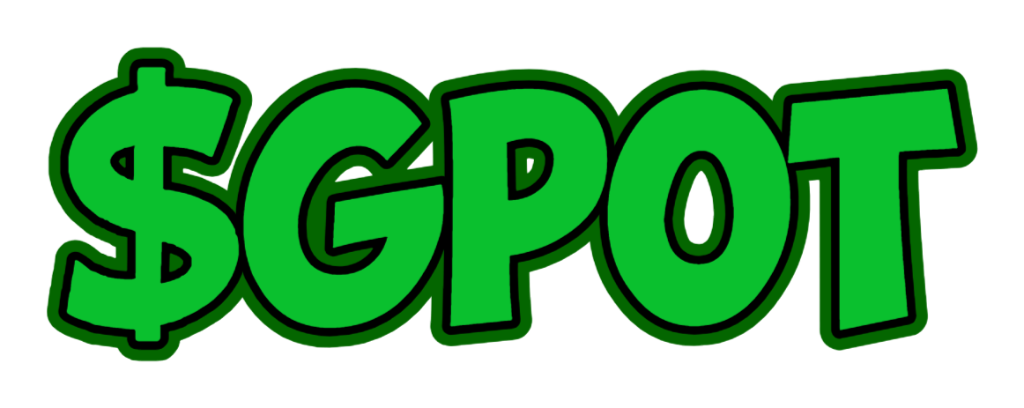
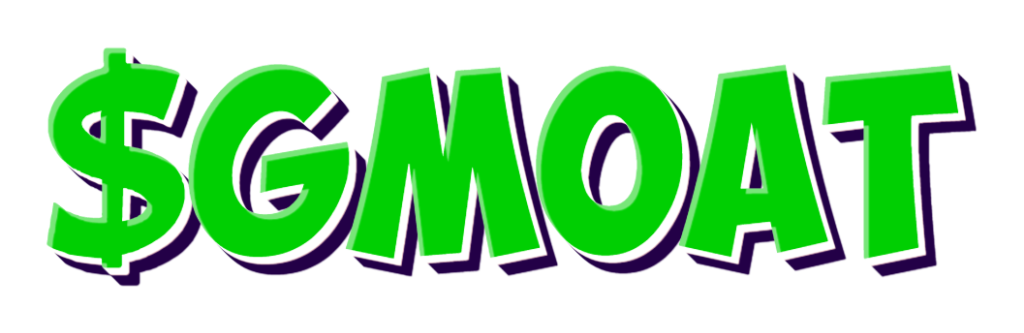
1

diff --git a/index.html b/index.html
@@ -4,11 +4,11 @@
 <meta charset="UTF-8">
 <meta name="viewport" content="width=device-width, initial-scale=1">
 	 <link rel="profile" href="https://gmpg.org/xfn/11"> 
-	 <title>Greatest Pepe of All Time</title>
+	 <title>Greatest Meme of All Time</title>
 <meta name='robots' content='max-image-preview:large' />
 <link rel='dns-prefetch' href='./fonts.googleapis.com' />
-<link rel="alternate" type="application/rss+xml" title="Greatest Pepe of All Time &raquo; Feed" href="https://greatesttokenofalltime.com/feed/" />
-<link rel="alternate" type="application/rss+xml" title="Greatest Pepe of All Time &raquo; Comments Feed" href="https://greatesttokenofalltime.com/comments/feed/" />
+<link rel="alternate" type="application/rss+xml" title="Greatest Meme of All Time &raquo; Feed" href="https://greatesttokenofalltime.com/feed/" />
+<link rel="alternate" type="application/rss+xml" title="Greatest Meme of All Time &raquo; Comments Feed" href="https://greatesttokenofalltime.com/comments/feed/" />
 <script>
 window._wpemojiSettings = {"baseUrl":"https:\/\/s.w.org\/images\/core\/emoji\/15.0.3\/72x72\/","ext":".png","svgUrl":"https:\/\/s.w.org\/images\/core\/emoji\/15.0.3\/svg\/","svgExt":".svg","source":{"concatemoji":"https:\/\/greatesttokenofalltime.com\/wp-includes\/js\/wp-emoji-release.min.js?ver=6.6.2"}};
 /*! This file is auto-generated */
@@ -163,7 +163,7 @@ class="post-1322 page type-page status-publish ast-article-single" id="post-1322
 		<div class="elementor-element elementor-element-5cd72ca e-con-full e-flex e-con e-child" data-id="5cd72ca" data-element_type="container">
 				<div class="elementor-element elementor-element-1376bd8 elementor-widget elementor-widget-heading" data-id="1376bd8" data-element_type="widget" data-widget_type="heading.default">
 				<div class="elementor-widget-container">
-			<h2 class="elementor-heading-title elementor-size-default">Greatest Pepe of All Time</h2>		</div>
+			<h2 class="elementor-heading-title elementor-size-default">Greatest Meme of All Time</h2>		</div>
 				</div>
 				<div class="elementor-element elementor-element-6646c36 elementor-invisible elementor-widget elementor-widget-image" data-id="6646c36" data-element_type="widget" data-settings="{&quot;_animation&quot;:&quot;bounceIn&quot;}" data-widget_type="image.default">
 				<div class="elementor-widget-container">
@@ -177,19 +177,19 @@ class="post-1322 page type-page status-publish ast-article-single" id="post-1322
 				<div class="elementor-widget-container">
 					<div class="elementor-social-icons-wrapper elementor-grid">
 							<span class="elementor-grid-item">
-					<a class="elementor-icon elementor-social-icon elementor-social-icon- elementor-animation-buzz elementor-repeater-item-c13c412" href="https://x.com/gpotsol" target="_blank">
+					<a class="elementor-icon elementor-social-icon elementor-social-icon- elementor-animation-buzz elementor-repeater-item-c13c412" href="https://x.com/gmoatonsol" target="_blank">
 						<span class="elementor-screen-only"></span>
 						<svg xmlns="http://www.w3.org/2000/svg" width="314" height="312" viewBox="0 0 314 312" fill="none"><g clip-path="url(#clip0_5948_74)"><path d="M109.901 5.79688H204.001C260.901 5.79688 307.101 51.9969 307.101 108.897V202.997C307.101 259.897 260.901 306.097 204.001 306.097H109.901C53.0008 306.097 6.80078 259.897 6.80078 202.997V108.897C6.80078 51.8969 53.0008 5.79688 109.901 5.79688Z" fill="#00AF00"></path><path d="M278.5 47.7984C281 45.9984 283.2 44.3984 286 42.3984C289.9 48.0984 294.1 53.4984 297.5 59.3984C308 77.1984 313.3 96.4984 313.4 117.098C313.5 142.898 313.6 168.698 313.4 194.598C313 250.898 272.3 298.998 216.8 308.698C209.7 309.898 202.4 310.698 195.2 310.698C169.4 310.898 143.5 311.298 117.7 310.698C73.7 309.698 39.9 290.198 16.5 252.898C15.6 251.498 14.9 250.098 14 248.398C16.5 246.798 18.9 245.198 21.5 243.498C22.4 244.998 23.1 245.998 23.7 247.098C43.5 279.598 72.1 298.398 110.1 300.998C131.2 302.498 152.5 301.798 173.7 301.598C186.5 301.498 199.5 301.598 212.1 300.098C255.4 294.998 294.1 258.098 301.8 215.198C303.2 207.298 303.9 199.098 304 191.098C304.3 167.698 304 144.198 304.1 120.798C304.2 94.3984 296.5 70.7984 279.8 50.1984C279.6 49.5984 279.2 48.8984 278.5 47.7984Z" fill="black"></path><path d="M19.4016 239.102C16.6016 240.102 14.0016 241.102 11.1016 242.102C6.50156 232.502 3.40156 222.702 2.10156 212.402C1.10156 205.302 0.601562 198.002 0.601562 190.802C0.401562 167.002 0.501563 143.102 0.501563 119.302C0.601563 60.7016 41.3016 12.4016 99.1016 2.60156C105.602 1.50156 112.202 1.10156 118.802 1.00156C144.402 0.801563 170.002 0.801563 195.502 1.00156C220.902 1.10156 244.102 8.60156 264.802 23.4016C266.302 24.5016 267.802 25.6016 269.402 26.9016C267.702 29.5016 266.202 31.8016 264.402 34.4016C263.102 33.5016 262.102 32.8016 261.102 32.1016C241.602 17.5016 219.502 10.2016 195.202 10.1016C169.602 9.90156 144.002 10.0016 118.502 10.1016C66.8016 10.3016 23.4016 44.7016 12.1016 94.7016C10.4016 102.302 9.60156 110.302 9.50156 118.102C9.20156 143.002 9.40156 168.002 9.40156 193.002C9.40156 207.902 12.1016 222.202 18.1016 235.902C18.7016 236.902 19.0016 237.802 19.4016 239.102Z" fill="black"></path><path d="M280.501 38.1984C279.001 39.8984 277.201 41.9984 275.001 44.5984C272.801 42.0984 271.001 39.7984 268.801 37.3984C270.501 35.7984 272.501 33.7984 274.601 31.8984C276.501 33.8984 278.401 35.8984 280.501 38.1984Z" fill="black"></path><path d="M75.3923 77L138.324 163.593L75 234H89.2557L144.701 172.361L189.496 234H238L171.53 142.535L230.475 77H216.22L165.163 133.768L123.906 77H75.4017H75.3923ZM96.3504 87.8047H118.628L217.023 223.195H194.745L96.3504 87.8047Z" fill="white"></path></g><defs><clipPath id="clip0_5948_74"><rect width="314" height="312" fill="white"></rect></clipPath></defs></svg>					</a>
 				</span>
 							<span class="elementor-grid-item">
-					<a class="elementor-icon elementor-social-icon elementor-social-icon- elementor-animation-buzz elementor-repeater-item-17acd4a" href="https://t.me/gpotsol" target="_blank">
+					<a class="elementor-icon elementor-social-icon elementor-social-icon- elementor-animation-buzz elementor-repeater-item-17acd4a" href="https://t.me/gmoatonsol" target="_blank">
 						<span class="elementor-screen-only"></span>
 						<svg xmlns="http://www.w3.org/2000/svg" width="314" height="312" viewBox="0 0 314 312" fill="none"><g clip-path="url(#clip0_5948_66)"><path d="M109.1 6.89844H203.2C260.1 6.89844 306.3 53.0984 306.3 109.998V204.098C306.3 260.998 260.1 307.198 203.2 307.198H109.1C52.2 307.198 6 260.998 6 204.098V109.998C6 52.9984 52.2 6.89844 109.1 6.89844Z" fill="#00AF00"></path><path d="M278.5 47.7984C281 45.9984 283.2 44.3984 286 42.3984C289.9 48.0984 294.1 53.4984 297.5 59.3984C308 77.1984 313.3 96.4984 313.4 117.098C313.5 142.898 313.6 168.698 313.4 194.598C313 250.898 272.3 298.998 216.8 308.698C209.7 309.898 202.4 310.698 195.2 310.698C169.4 310.898 143.5 311.298 117.7 310.698C73.7 309.698 39.9 290.198 16.5 252.898C15.6 251.498 14.9 250.098 14 248.398C16.5 246.798 18.9 245.198 21.5 243.498C22.4 244.998 23.1 245.998 23.7 247.098C43.5 279.598 72.1 298.398 110.1 300.998C131.2 302.498 152.5 301.798 173.7 301.598C186.5 301.498 199.5 301.598 212.1 300.098C255.4 294.998 294.1 258.098 301.8 215.198C303.2 207.298 303.9 199.098 304 191.098C304.3 167.698 304 144.198 304.1 120.798C304.2 94.3984 296.5 70.7984 279.8 50.1984C279.6 49.5984 279.2 48.8984 278.5 47.7984Z" fill="black"></path><path d="M19.4016 239.102C16.6016 240.102 14.0016 241.102 11.1016 242.102C6.50156 232.502 3.40156 222.702 2.10156 212.402C1.10156 205.302 0.601562 198.002 0.601562 190.802C0.401562 167.002 0.501563 143.102 0.501563 119.302C0.601563 60.7016 41.3016 12.4016 99.1016 2.60156C105.602 1.50156 112.202 1.10156 118.802 1.00156C144.402 0.801563 170.002 0.801563 195.502 1.00156C220.902 1.10156 244.102 8.60156 264.802 23.4016C266.302 24.5016 267.802 25.6016 269.402 26.9016C267.702 29.5016 266.202 31.8016 264.402 34.4016C263.102 33.5016 262.102 32.8016 261.102 32.1016C241.602 17.5016 219.502 10.2016 195.202 10.1016C169.602 9.90156 144.002 10.0016 118.502 10.1016C66.8016 10.3016 23.4016 44.7016 12.1016 94.7016C10.4016 102.302 9.60156 110.302 9.50156 118.102C9.20156 143.002 9.40156 168.002 9.40156 193.002C9.40156 207.902 12.1016 222.202 18.1016 235.902C18.7016 236.902 19.0016 237.802 19.4016 239.102Z" fill="black"></path><path d="M134.21 220.718L136.936 179.552L211.679 112.201C214.995 109.192 211.004 107.731 206.62 110.359L114.355 168.648L74.4473 156C65.8887 153.569 65.7905 147.632 76.3997 143.353L231.823 83.3937C238.927 80.1826 245.742 85.1434 243.016 96.0412L216.548 220.712C214.694 229.571 209.346 231.708 201.948 227.625L161.654 197.848L142.29 216.623C140.049 218.864 138.201 220.712 134.21 220.712V220.718Z" fill="white"></path></g><defs><clipPath id="clip0_5948_66"><rect width="314" height="312" fill="white"></rect></clipPath></defs></svg>					</a>
 				</span>
 
 					</div>
 				</div>
-					<a style="margin-bottom: 560px" href="https://pump.fun/oxzDB9KaccggScESmMiP355T4MUp5YM6b8jmMhkGoat">
+					<a style="margin-bottom: 560px" href="https://pump.fun/WcFZ8EENzBfyX4D5Js6VurFGBo5t2nK8k3Yxz68Goat">
 					<div style="width:100%;" class="elementor-element elementor-element-7db2ab6 elementor-widget elementor-widget-heading" data-id="7db2ab6" data-element_type="widget" data-widget_type="heading.default">
 				<div style="margin:0 auto; width:70%;" class="elementor-widget-container">
 			<h2 class="elementor-heading-title elementor-size-default">BUY ON PUMP.FUN</h2>		</div>
@@ -235,7 +235,7 @@ class="post-1322 page type-page status-publish ast-article-single" id="post-1322
 				</div>
 				<div class="elementor-element elementor-element-1a1e833 elementor-widget elementor-widget-heading" data-id="1a1e833" data-element_type="widget" data-widget_type="heading.default">
 				<div class="elementor-widget-container">
-			<h2 class="elementor-heading-title elementor-size-default">The $GPOT— Think of GPOT like Ali in boxing, Mahomes in football, or Messi in soccer. We’re talking the pinnacle of greatness.Every chain has its GPOT</h2>		</div>
+			<h2 class="elementor-heading-title elementor-size-default">The $GMOAT— Think of GMOAT like Ali in boxing, Mahomes in football, or Messi in soccer. We’re talking the pinnacle of greatness.Every chain has its GMOAT</h2>		</div>
 				</div>
 				<div class="elementor-element elementor-element-3cf19c5 elementor-widget elementor-widget-heading" data-id="3cf19c5" data-element_type="widget" data-widget_type="heading.default">
 				<div class="elementor-widget-container">
@@ -328,18 +328,18 @@ class="post-1322 page type-page status-publish ast-article-single" id="post-1322
 				</div>
 				<div class="elementor-element elementor-element-d35d362 elementor-widget elementor-widget-heading" data-id="d35d362" data-element_type="widget" data-widget_type="heading.default">
 				<div class="elementor-widget-container">
-			<h2 class="elementor-heading-title elementor-size-default">$GPOT coin is a meme coin with no intrinsic value or expectation of financial return. There is no formal team or roadmap. The coin is completely useless and for entertainment purposes only.</h2>		</div>
+			<h2 class="elementor-heading-title elementor-size-default">$GMOAT coin is a meme coin with no intrinsic value or expectation of financial return. There is no formal team or roadmap. The coin is completely useless and for entertainment purposes only.</h2>		</div>
 				</div>
 				<div class="elementor-element elementor-element-6b2f60e elementor-shape-rounded elementor-grid-0 e-grid-align-center elementor-widget elementor-widget-social-icons" data-id="6b2f60e" data-element_type="widget" data-widget_type="social-icons.default">
 				<div class="elementor-widget-container">
 					<div class="elementor-social-icons-wrapper elementor-grid">
 							<span class="elementor-grid-item">
-					<a class="elementor-icon elementor-social-icon elementor-social-icon- elementor-animation-buzz elementor-repeater-item-c13c412" href="https://x.com/gpotsol" target="_blank">
+					<a class="elementor-icon elementor-social-icon elementor-social-icon- elementor-animation-buzz elementor-repeater-item-c13c412" href="https://x.com/gmoatonsol" target="_blank">
 						<span class="elementor-screen-only"></span>
 						<svg xmlns="http://www.w3.org/2000/svg" width="314" height="312" viewBox="0 0 314 312" fill="none"><g clip-path="url(#clip0_5948_74)"><path d="M109.901 5.79688H204.001C260.901 5.79688 307.101 51.9969 307.101 108.897V202.997C307.101 259.897 260.901 306.097 204.001 306.097H109.901C53.0008 306.097 6.80078 259.897 6.80078 202.997V108.897C6.80078 51.8969 53.0008 5.79688 109.901 5.79688Z" fill="#00AF00"></path><path d="M278.5 47.7984C281 45.9984 283.2 44.3984 286 42.3984C289.9 48.0984 294.1 53.4984 297.5 59.3984C308 77.1984 313.3 96.4984 313.4 117.098C313.5 142.898 313.6 168.698 313.4 194.598C313 250.898 272.3 298.998 216.8 308.698C209.7 309.898 202.4 310.698 195.2 310.698C169.4 310.898 143.5 311.298 117.7 310.698C73.7 309.698 39.9 290.198 16.5 252.898C15.6 251.498 14.9 250.098 14 248.398C16.5 246.798 18.9 245.198 21.5 243.498C22.4 244.998 23.1 245.998 23.7 247.098C43.5 279.598 72.1 298.398 110.1 300.998C131.2 302.498 152.5 301.798 173.7 301.598C186.5 301.498 199.5 301.598 212.1 300.098C255.4 294.998 294.1 258.098 301.8 215.198C303.2 207.298 303.9 199.098 304 191.098C304.3 167.698 304 144.198 304.1 120.798C304.2 94.3984 296.5 70.7984 279.8 50.1984C279.6 49.5984 279.2 48.8984 278.5 47.7984Z" fill="black"></path><path d="M19.4016 239.102C16.6016 240.102 14.0016 241.102 11.1016 242.102C6.50156 232.502 3.40156 222.702 2.10156 212.402C1.10156 205.302 0.601562 198.002 0.601562 190.802C0.401562 167.002 0.501563 143.102 0.501563 119.302C0.601563 60.7016 41.3016 12.4016 99.1016 2.60156C105.602 1.50156 112.202 1.10156 118.802 1.00156C144.402 0.801563 170.002 0.801563 195.502 1.00156C220.902 1.10156 244.102 8.60156 264.802 23.4016C266.302 24.5016 267.802 25.6016 269.402 26.9016C267.702 29.5016 266.202 31.8016 264.402 34.4016C263.102 33.5016 262.102 32.8016 261.102 32.1016C241.602 17.5016 219.502 10.2016 195.202 10.1016C169.602 9.90156 144.002 10.0016 118.502 10.1016C66.8016 10.3016 23.4016 44.7016 12.1016 94.7016C10.4016 102.302 9.60156 110.302 9.50156 118.102C9.20156 143.002 9.40156 168.002 9.40156 193.002C9.40156 207.902 12.1016 222.202 18.1016 235.902C18.7016 236.902 19.0016 237.802 19.4016 239.102Z" fill="black"></path><path d="M280.501 38.1984C279.001 39.8984 277.201 41.9984 275.001 44.5984C272.801 42.0984 271.001 39.7984 268.801 37.3984C270.501 35.7984 272.501 33.7984 274.601 31.8984C276.501 33.8984 278.401 35.8984 280.501 38.1984Z" fill="black"></path><path d="M75.3923 77L138.324 163.593L75 234H89.2557L144.701 172.361L189.496 234H238L171.53 142.535L230.475 77H216.22L165.163 133.768L123.906 77H75.4017H75.3923ZM96.3504 87.8047H118.628L217.023 223.195H194.745L96.3504 87.8047Z" fill="white"></path></g><defs><clipPath id="clip0_5948_74"><rect width="314" height="312" fill="white"></rect></clipPath></defs></svg>					</a>
 				</span>
 							<span class="elementor-grid-item">
-					<a class="elementor-icon elementor-social-icon elementor-social-icon- elementor-animation-buzz elementor-repeater-item-17acd4a" href="https://t.me/gpotsol" target="_blank">
+					<a class="elementor-icon elementor-social-icon elementor-social-icon- elementor-animation-buzz elementor-repeater-item-17acd4a" href="https://t.me/gmoatonsol" target="_blank">
 						<span class="elementor-screen-only"></span>
 						<svg xmlns="http://www.w3.org/2000/svg" width="314" height="312" viewBox="0 0 314 312" fill="none"><g clip-path="url(#clip0_5948_66)"><path d="M109.1 6.89844H203.2C260.1 6.89844 306.3 53.0984 306.3 109.998V204.098C306.3 260.998 260.1 307.198 203.2 307.198H109.1C52.2 307.198 6 260.998 6 204.098V109.998C6 52.9984 52.2 6.89844 109.1 6.89844Z" fill="#00AF00"></path><path d="M278.5 47.7984C281 45.9984 283.2 44.3984 286 42.3984C289.9 48.0984 294.1 53.4984 297.5 59.3984C308 77.1984 313.3 96.4984 313.4 117.098C313.5 142.898 313.6 168.698 313.4 194.598C313 250.898 272.3 298.998 216.8 308.698C209.7 309.898 202.4 310.698 195.2 310.698C169.4 310.898 143.5 311.298 117.7 310.698C73.7 309.698 39.9 290.198 16.5 252.898C15.6 251.498 14.9 250.098 14 248.398C16.5 246.798 18.9 245.198 21.5 243.498C22.4 244.998 23.1 245.998 23.7 247.098C43.5 279.598 72.1 298.398 110.1 300.998C131.2 302.498 152.5 301.798 173.7 301.598C186.5 301.498 199.5 301.598 212.1 300.098C255.4 294.998 294.1 258.098 301.8 215.198C303.2 207.298 303.9 199.098 304 191.098C304.3 167.698 304 144.198 304.1 120.798C304.2 94.3984 296.5 70.7984 279.8 50.1984C279.6 49.5984 279.2 48.8984 278.5 47.7984Z" fill="black"></path><path d="M19.4016 239.102C16.6016 240.102 14.0016 241.102 11.1016 242.102C6.50156 232.502 3.40156 222.702 2.10156 212.402C1.10156 205.302 0.601562 198.002 0.601562 190.802C0.401562 167.002 0.501563 143.102 0.501563 119.302C0.601563 60.7016 41.3016 12.4016 99.1016 2.60156C105.602 1.50156 112.202 1.10156 118.802 1.00156C144.402 0.801563 170.002 0.801563 195.502 1.00156C220.902 1.10156 244.102 8.60156 264.802 23.4016C266.302 24.5016 267.802 25.6016 269.402 26.9016C267.702 29.5016 266.202 31.8016 264.402 34.4016C263.102 33.5016 262.102 32.8016 261.102 32.1016C241.602 17.5016 219.502 10.2016 195.202 10.1016C169.602 9.90156 144.002 10.0016 118.502 10.1016C66.8016 10.3016 23.4016 44.7016 12.1016 94.7016C10.4016 102.302 9.60156 110.302 9.50156 118.102C9.20156 143.002 9.40156 168.002 9.40156 193.002C9.40156 207.902 12.1016 222.202 18.1016 235.902C18.7016 236.902 19.0016 237.802 19.4016 239.102Z" fill="black"></path><path d="M134.21 220.718L136.936 179.552L211.679 112.201C214.995 109.192 211.004 107.731 206.62 110.359L114.355 168.648L74.4473 156C65.8887 153.569 65.7905 147.632 76.3997 143.353L231.823 83.3937C238.927 80.1826 245.742 85.1434 243.016 96.0412L216.548 220.712C214.694 229.571 209.346 231.708 201.948 227.625L161.654 197.848L142.29 216.623C140.049 218.864 138.201 220.712 134.21 220.712V220.718Z" fill="white"></path></g><defs><clipPath id="clip0_5948_66"><rect width="314" height="312" fill="white"></rect></clipPath></defs></svg>					</a>
 				</span>
@@ -357,7 +357,7 @@ class="post-1322 page type-page status-publish ast-article-single" id="post-1322
 				</div>
 				<div class="elementor-element elementor-element-1f17e77 elementor-widget elementor-widget-heading" data-id="1f17e77" data-element_type="widget" data-widget_type="heading.default">
 				<div class="elementor-widget-container">
-			<h2 class="elementor-heading-title elementor-size-default">© 2024 Greatest Pepe of All Time</h2>		</div>
+			<h2 class="elementor-heading-title elementor-size-default">© 2024 Greatest Meme of All Time</h2>		</div>
 				</div>
 					</div>
 				</div>
